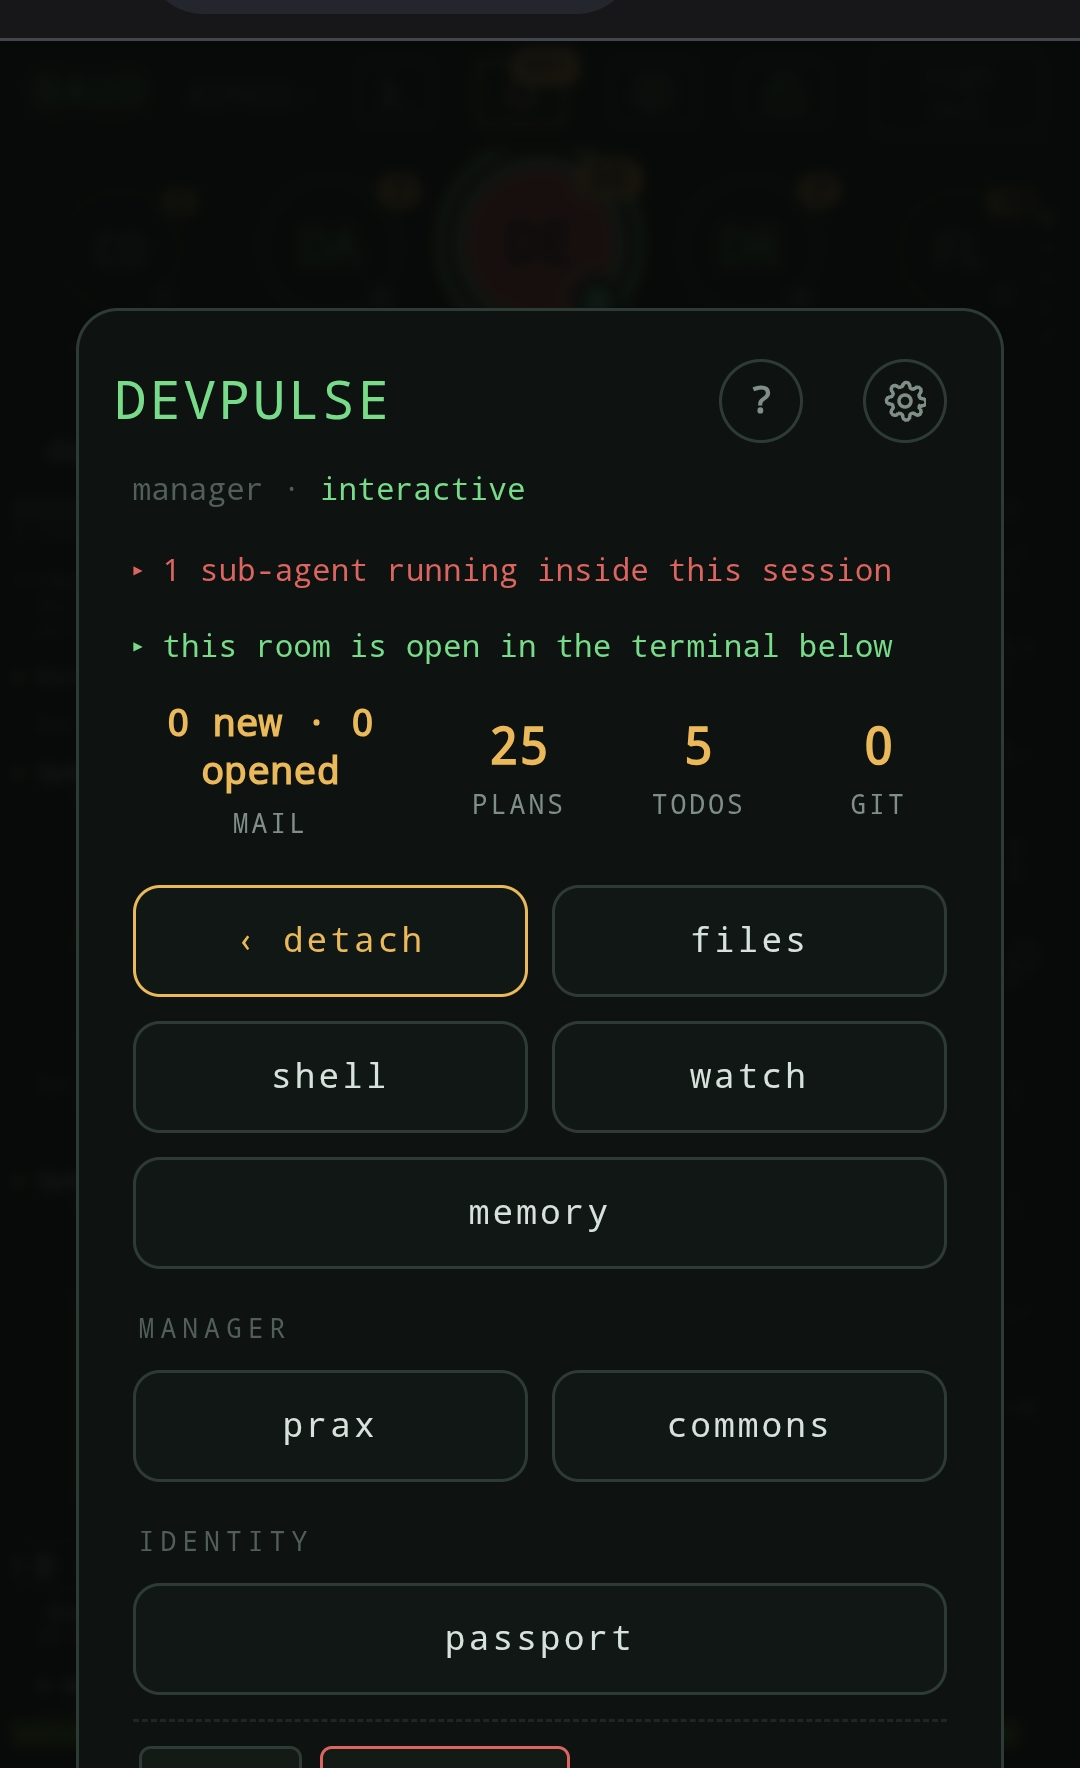
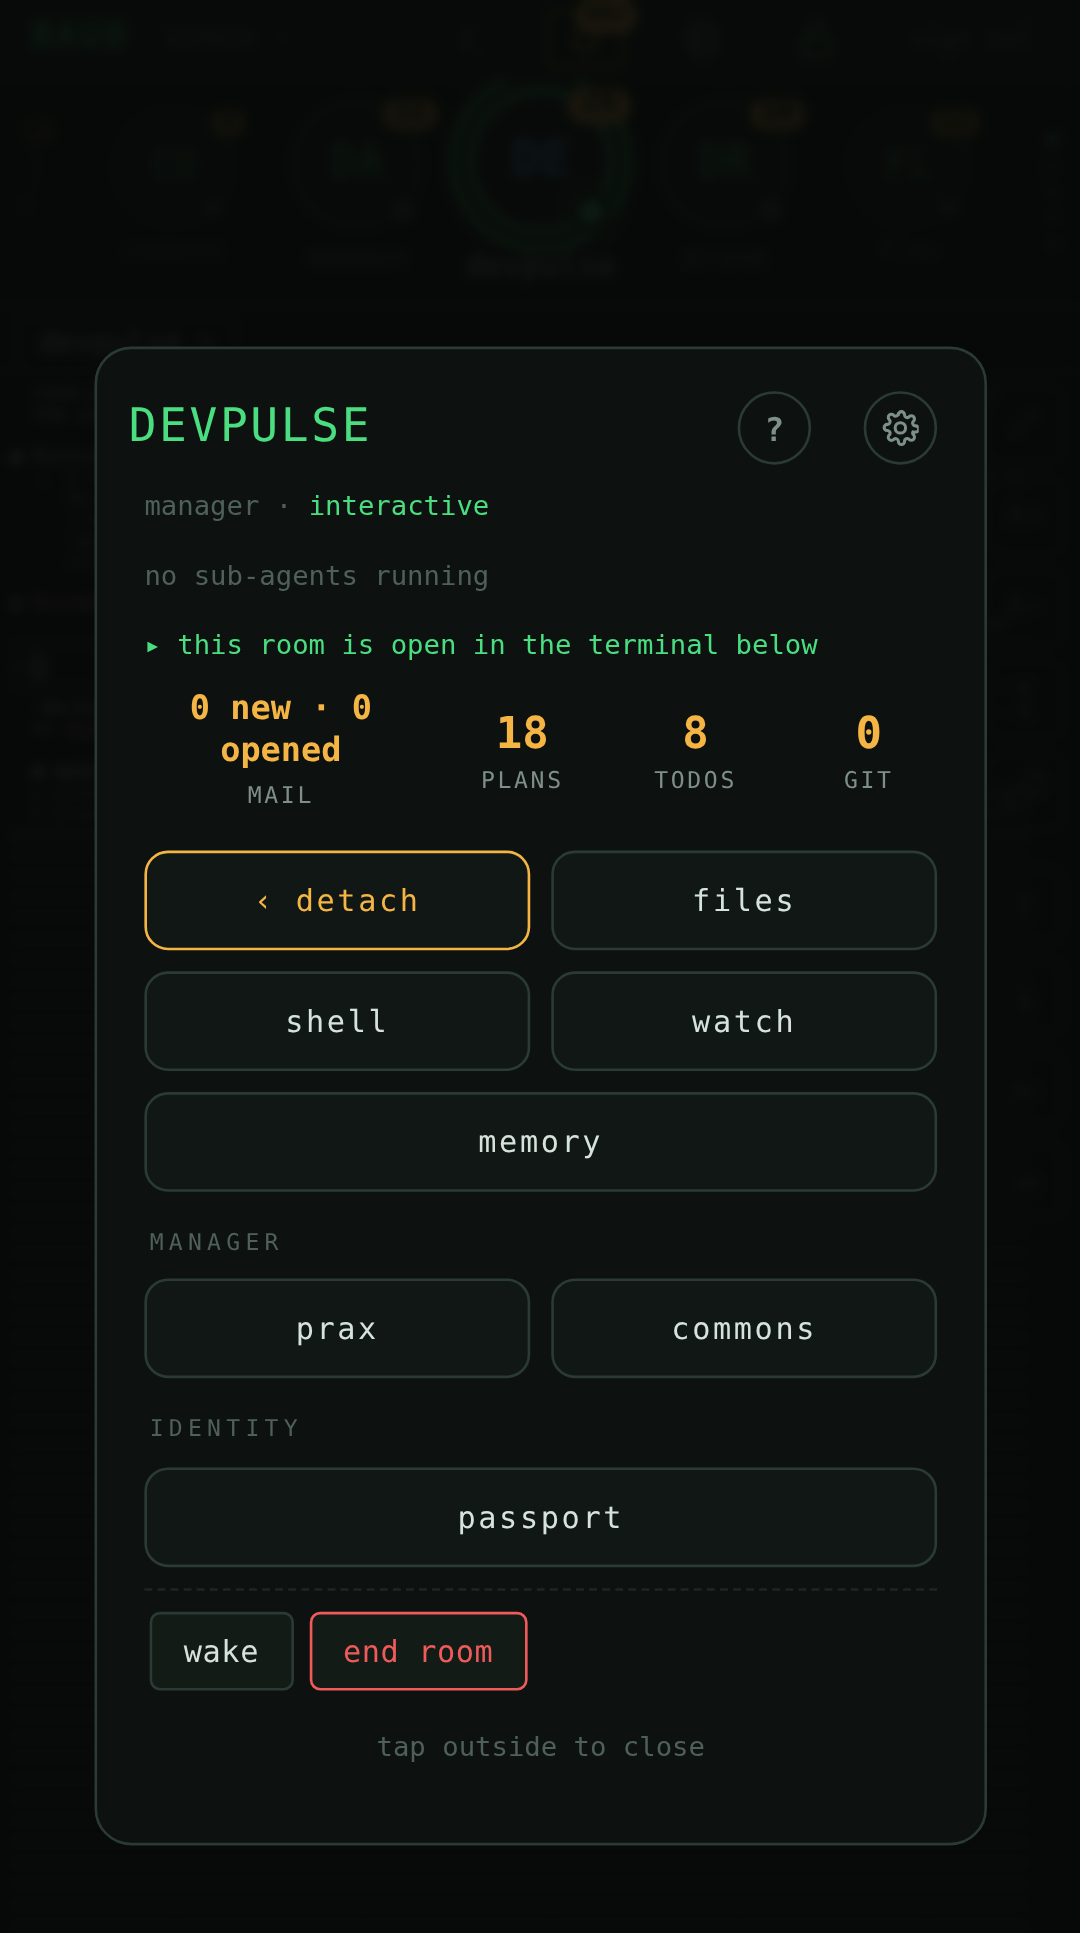
docs(readme): the BAUD card picture whole, retaken headless at phone scale
The README embeds assets/baud-agent.png, a phone screenshot of the DEVPULSE
card in BAUD. The card is taller than a phone screen, so the shot ended below
the passport button with the wake / end room row sliced. The owner's screenshot
of the rendered README showed the cut.

Retaken from the live phone face: a one-use operate pairing opened in headless
Chrome under Playwright at 412 CSS px wide, 2.625x scale, 1100 px tall, the
DEVPULSE tile tapped, the viewport cropped at the card's bottom edge. 1080x1933.
Both capture tokens (readme-shot, readme-shot-op) revoked after the shot.

Claude-Session: https://claude.ai/code/session_017B9TjoSidendy6BExDNjct

diff --git a/CHANGELOG.md b/CHANGELOG.md
@@ -27,6 +27,8 @@ PyPI version — not the changelog header.
 
 ### Fixed
 
+- **The README's BAUD card picture is whole** (`assets/baud-agent.png`). The phone screenshot ended mid-card, below `passport`: the card is taller than a phone screen. Retaken headless at phone scale through a one-use pairing with a viewport tall enough for the whole card, down to `wake` / `end room`; both capture tokens revoked.
+
 - **Two doc lines that disagreed with the code** (@devpulse `docs/watchdog.md`; @canary `modules/kv.py`). The watchdog page said a stall fires after 120 s of transcript silence where `agent.py` fires at 300 s (120 false-fired on every long response and compaction). Canary's `kv --help` said a bare `kv` prints "this page" where it prints the short map; a red-first pin in `test_kv.py` holds the line. Both found by a read-only trace of the dispatch flow and a plan review on the same day.
 
 - **Four devpulse strings and a swallowed write, found by the comment sweep** (@devpulse, `modules/compass.py` 1.0.3, `modules/admin_grant.py` 1.2.1, `handlers/feedback/storage.py` 1.0.1, `docs/watchdog.md`, `.seedgo/bypass.json`; two pins; suite 545). `docs/watchdog.md` claimed a row past `expected_by` meant its monitor died and that a live monitor could not overrun the timeout; ai_mail retries a dispatch up to three times with a fresh timeout each attempt, so the doc now says what the wire's own DEAD line says: overdue is a prompt to look, `monitor_alive` false is the death. Compass's unknown-id refusals pointed at `compass list`, a verb that does not exist; they name `query` and `stats`. The feedback inbox store logged an OSError on save and returned as if written, and answered an empty inbox for a corrupt or unreadable file, which the next save would have overwritten; both raise now, the load naming the path, and the file is left as found. `admin_grant` printed its help, status and introspection to stderr (`console = err_console` since birth), so a pipe saw nothing; they go to stdout, refusals stay on stderr through `error()`. Two bypass pins re-pointed at the lines their reasons describe (`registry.py` 217/220, `test_watchdog_registry.py` 500/512/513); the Windows "cannot run answers alive" clause is gone because that probe raises.
